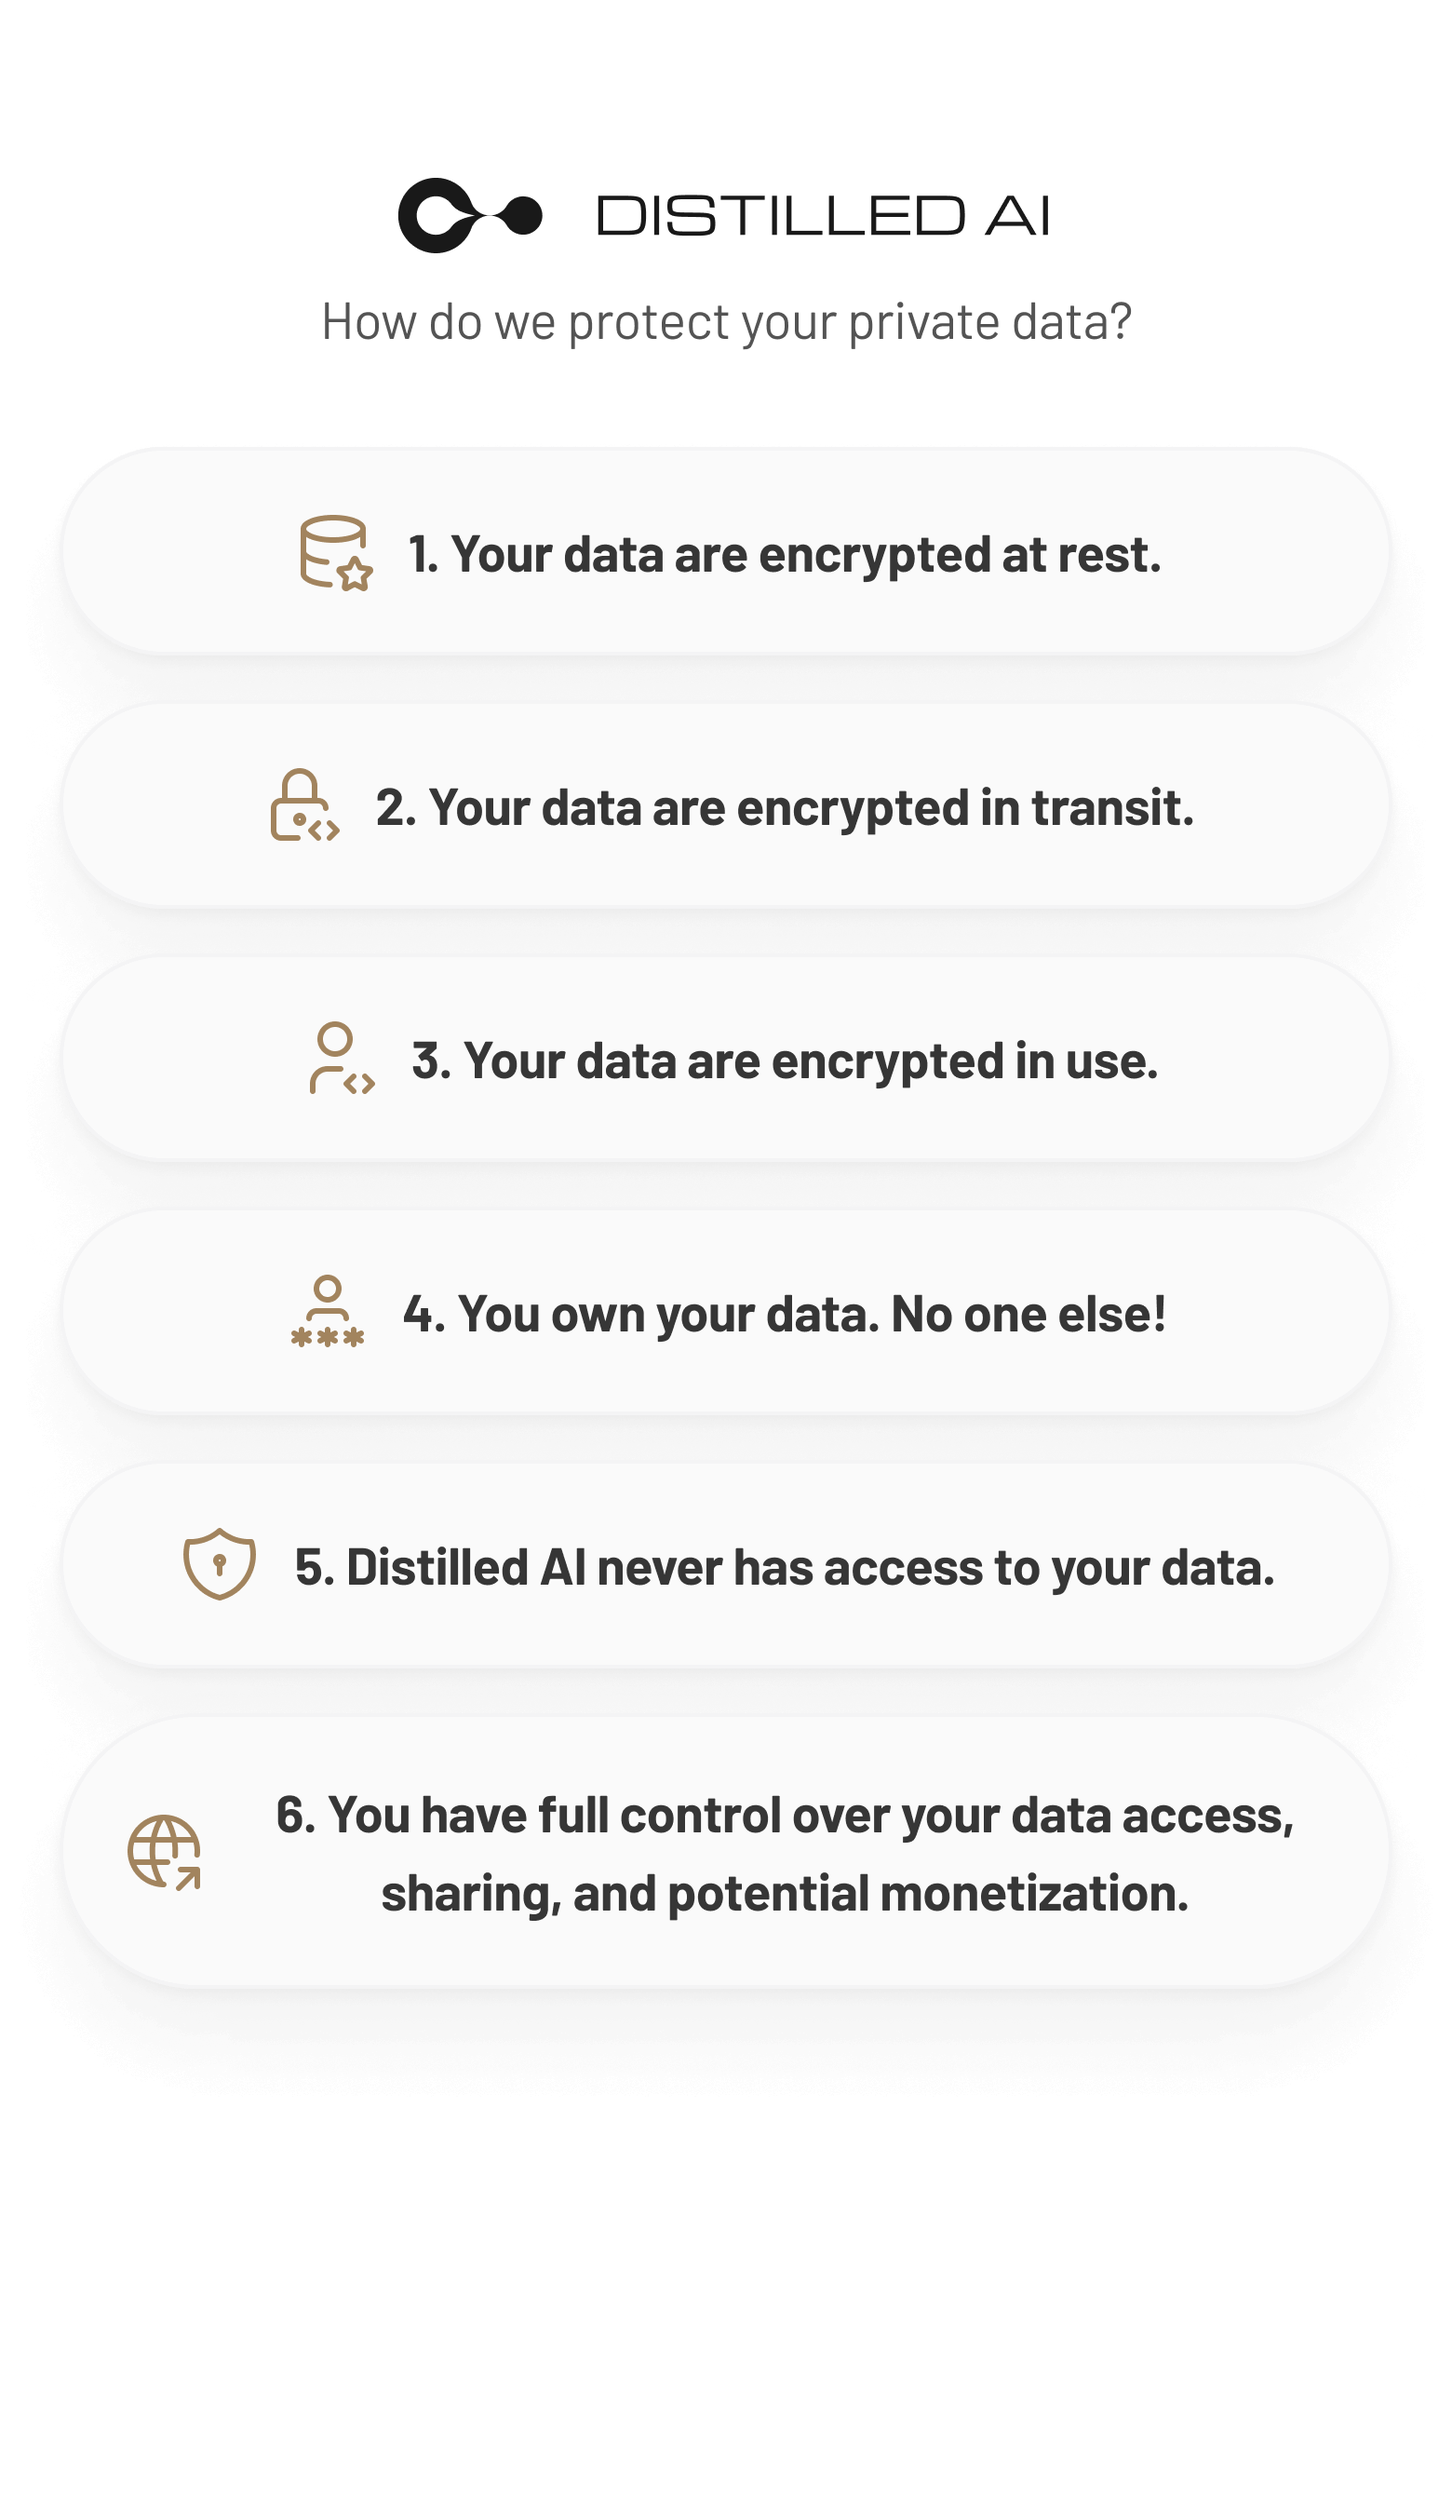
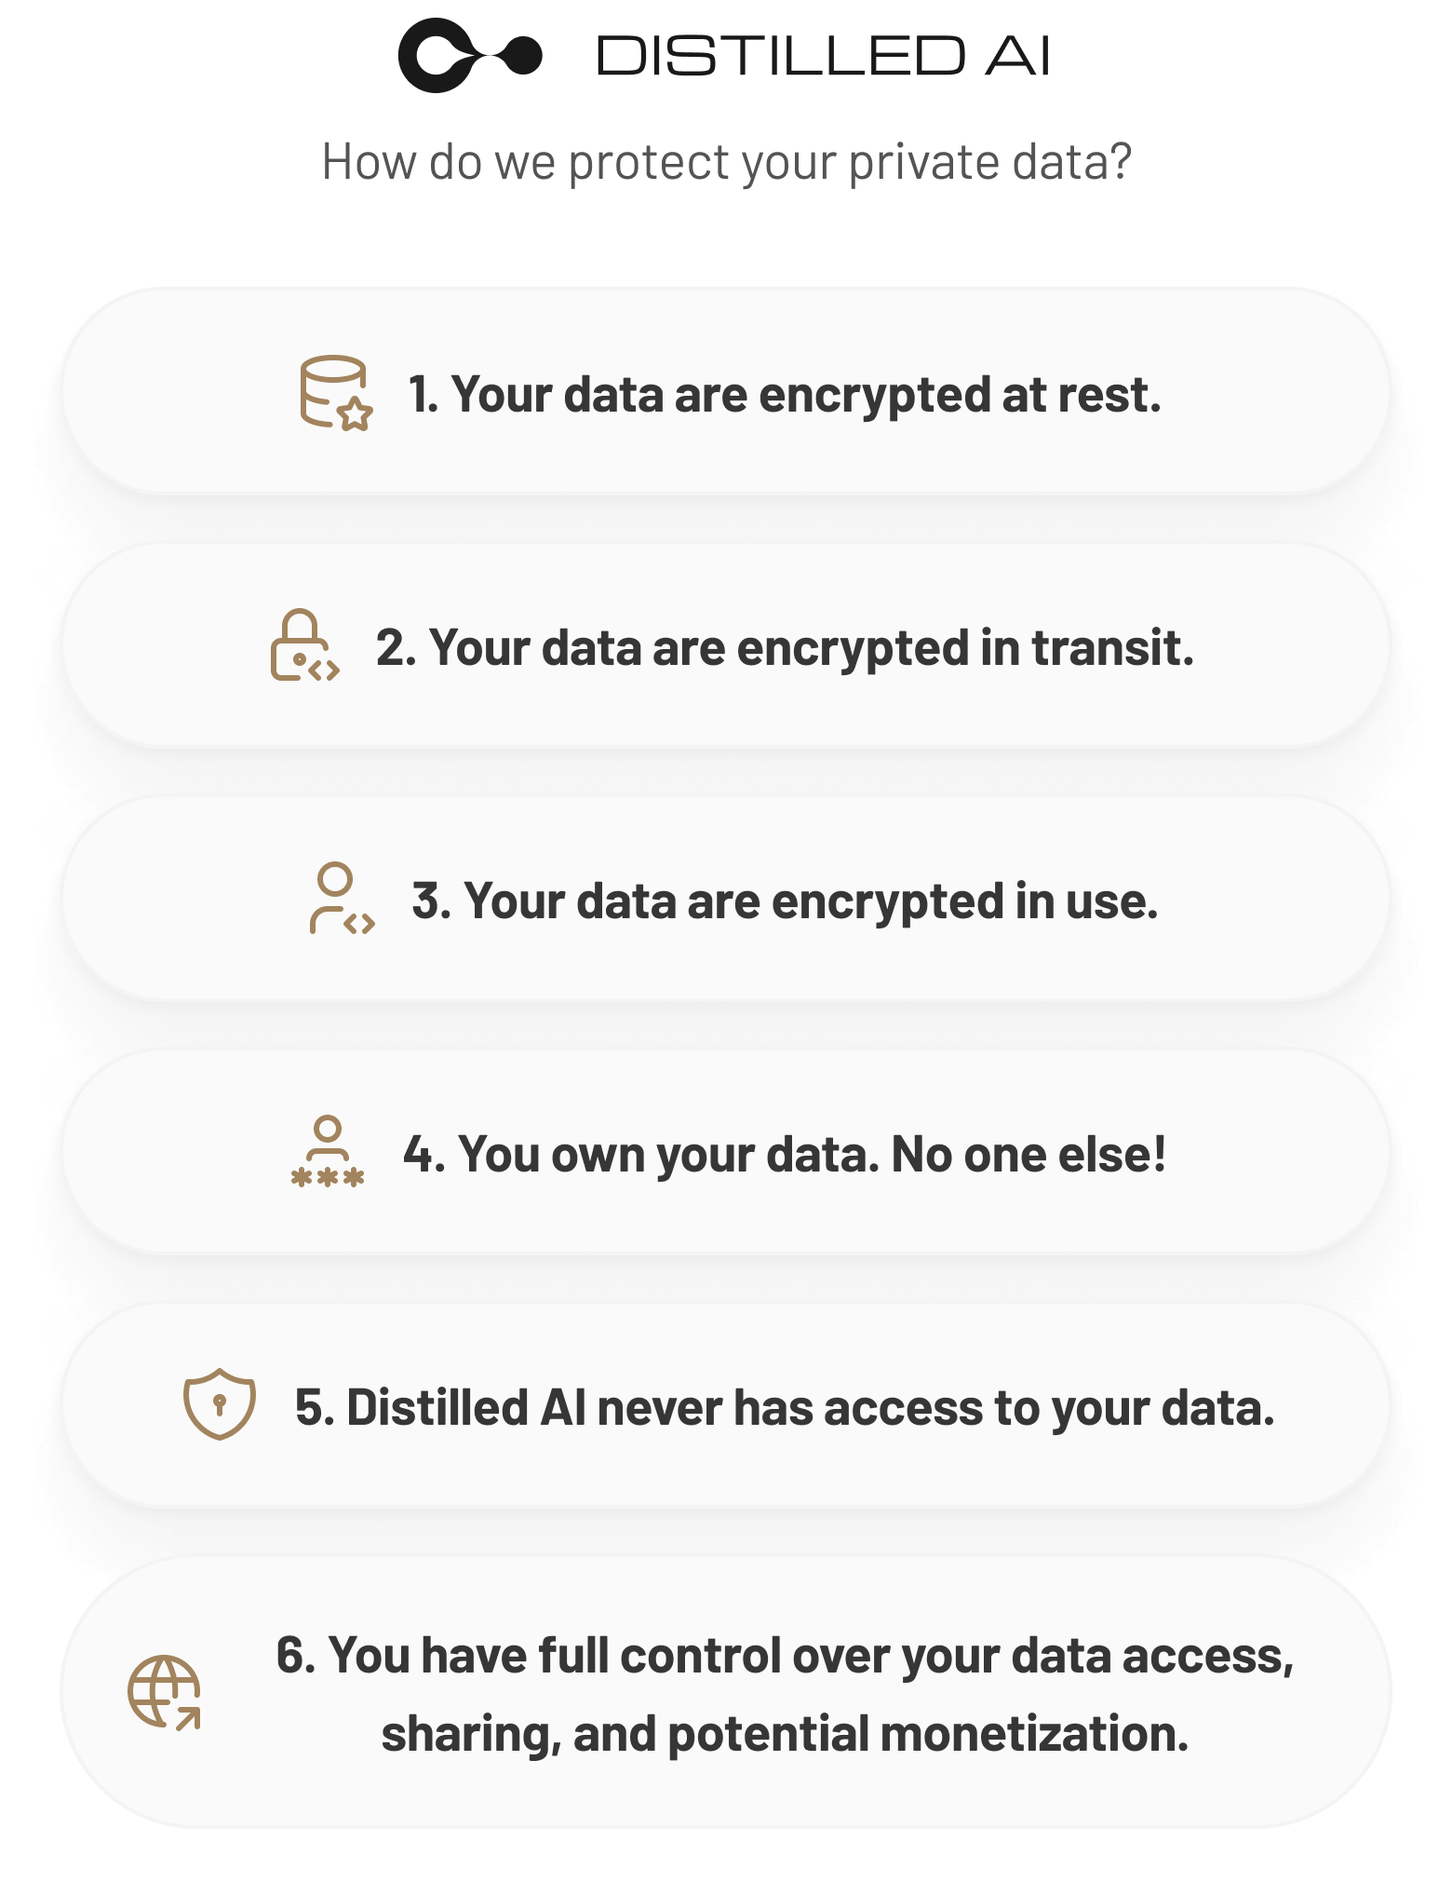
fix: responsive

diff --git a/src/pages/ChatPage/ChatBox/RightContent/Modal/FYIModal.tsx b/src/pages/ChatPage/ChatBox/RightContent/Modal/FYIModal.tsx
@@ -36,13 +36,13 @@ const FYIModal: React.FC<{ openPopup: boolean; setOpenPopup: any }> = ({
       onOpenChange={onOpenChange}
       hideCloseButton
       classNames={{
-        base: "bg-white max-sm:!m-0 max-sm:h-[calc(100vh-30px)]",
+        base: "bg-white max-sm:!m-0 max-sm:h-[100dvh]",
       }}
       size="2xl"
       placement="bottom-center"
     >
       <ModalContent>
-        <div className="relative mt-4 h-[600px] w-auto max-sm:h-[800px]">
+        <div className="relative mt-4 h-[600px] w-auto max-sm:h-full">
           <img
             className="absolute left-1/2 top-1/2 z-10 -translate-x-1/2 -translate-y-1/2 transition-all duration-500 ease-out"
             src={isMobile ? fyiPrivateDataBgMobile : fyiPrivateDataBg}
@@ -55,7 +55,7 @@ const FYIModal: React.FC<{ openPopup: boolean; setOpenPopup: any }> = ({
             </div>
           </div>
 
-          <div className="absolute left-1/2 top-1/2 z-40 h-full w-full -translate-x-1/2 -translate-y-1/2 transition-all duration-500 ease-out">
+          <div className="absolute left-1/2 top-1/2 z-40 w-full -translate-x-1/2 -translate-y-1/2 transition-all duration-500 ease-out">
             <img
               src={isMobile ? fyiPrivateDataImageMobile : fyiPrivateDataImage}
             />
@@ -63,7 +63,7 @@ const FYIModal: React.FC<{ openPopup: boolean; setOpenPopup: any }> = ({
 
           {isMobile && (
             <Button
-              className="absolute bottom-[40px] left-1/2 z-[200] h-[48px] w-[calc(100%-32px)] -translate-x-1/2 rounded-full bg-mercury-950 text-white"
+              className="absolute bottom-[2%] left-1/2 z-[200] h-[48px] w-[calc(100%-32px)] -translate-x-1/2 rounded-full bg-mercury-950 text-white"
               size="lg"
               onClick={onOpenChange}
             >
